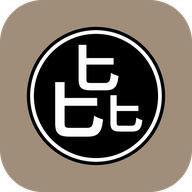
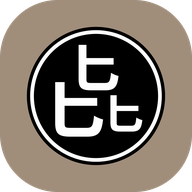
網頁版 2.4：圖示背景圓角加大（22% → 30%）

diff --git a/index.html b/index.html
@@ -82,7 +82,7 @@ footer{ font-size:12px; color:var(--onground); text-align:center; margin-top:26p
 
 <header>
   <div class="brand"><img id="brandMark" alt=""><h1>比例字級閱讀</h1></div>
-  <div class="sub">網頁版 2.3（2026-09-21）｜發明專利 I847748</div>
+  <div class="sub">網頁版 2.4（2026-09-21）｜發明專利 I847748</div>
 </header>
 
 <div class="panel">
